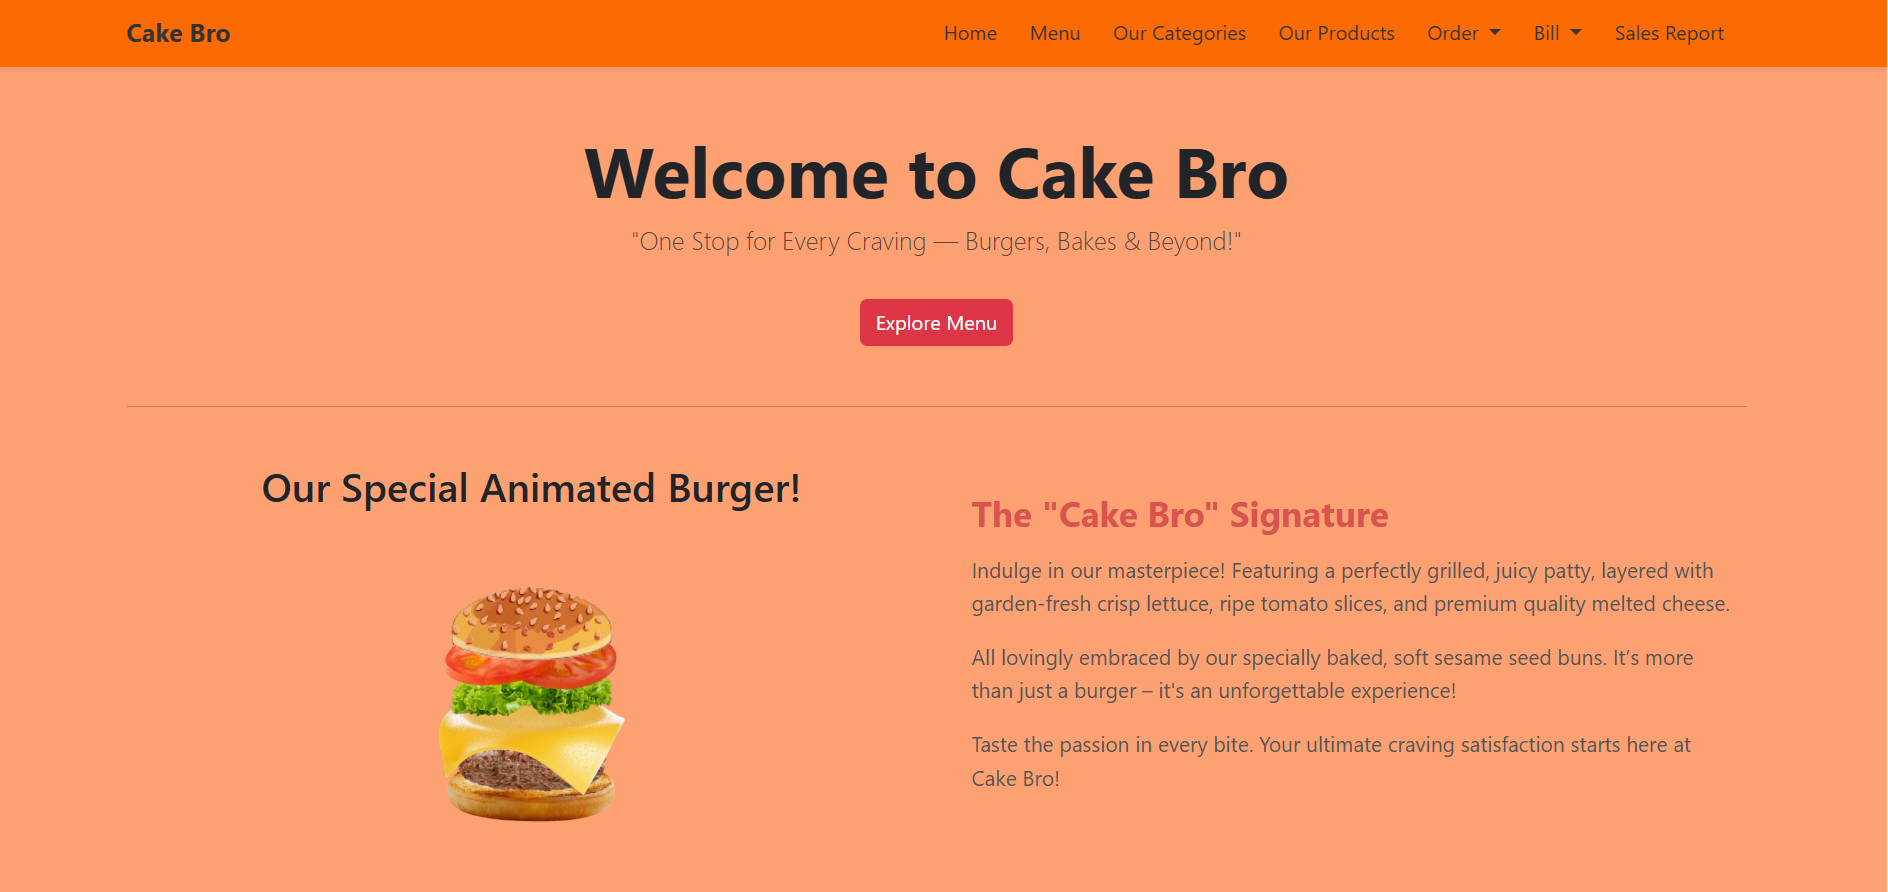
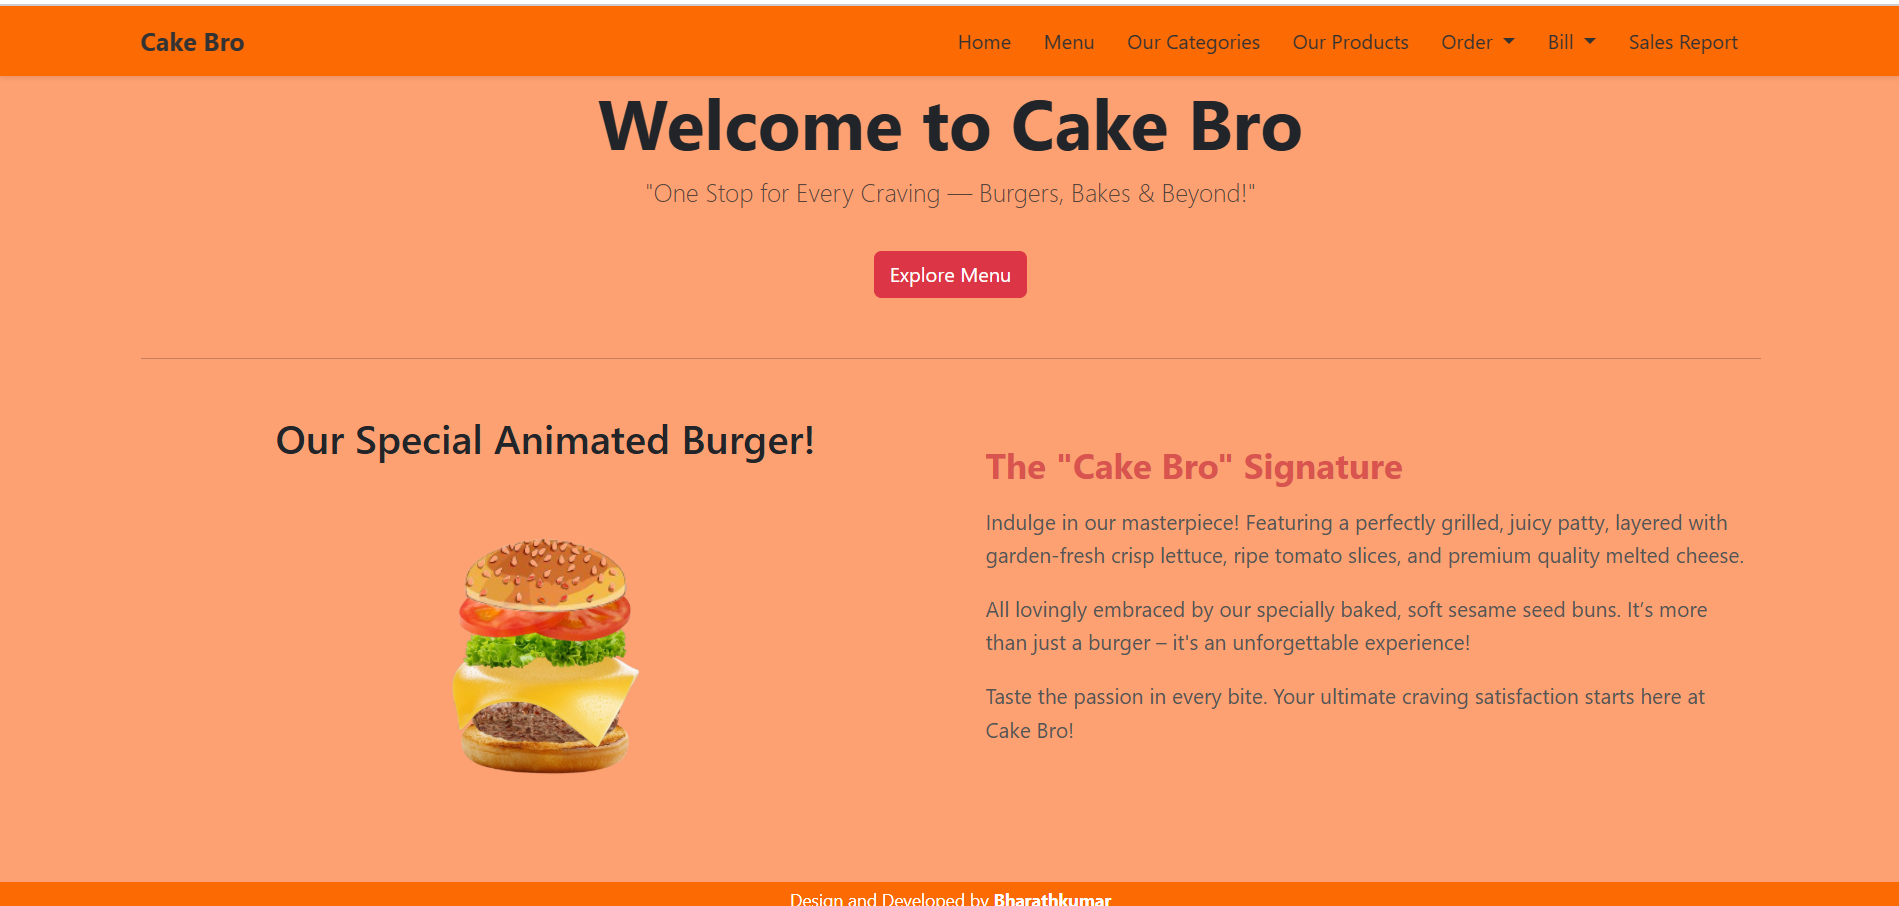
add fotter

diff --git a/products/templates/products/category_list.html b/products/templates/products/category_list.html
@@ -10,7 +10,7 @@
 
     <input type="text" id="searchInput" class="form-control mb-3" placeholder="Search category...">
 
-    <table class="table table-bordered table-hover text-center table-warning" id="categoryTable">
+    <table class="table table-bordered table-striped text-center" id="categoryTable">
 
         <thead class="table-dark">
             <tr>

diff --git a/templates/base.html b/templates/base.html
@@ -162,6 +162,8 @@
 {% block scripts_extra %}
 {# Burger animation JS #}
 {% endblock scripts_extra %}
-
+<footer class="text-center py-1 mt-2" style="background-color: #fc6a03; color: white; font-size: 14px;">
+  <p class="mb-0">Design and Developed by <strong>Bharathkumar</strong></p>
+</footer>
 </body>
 </html>
